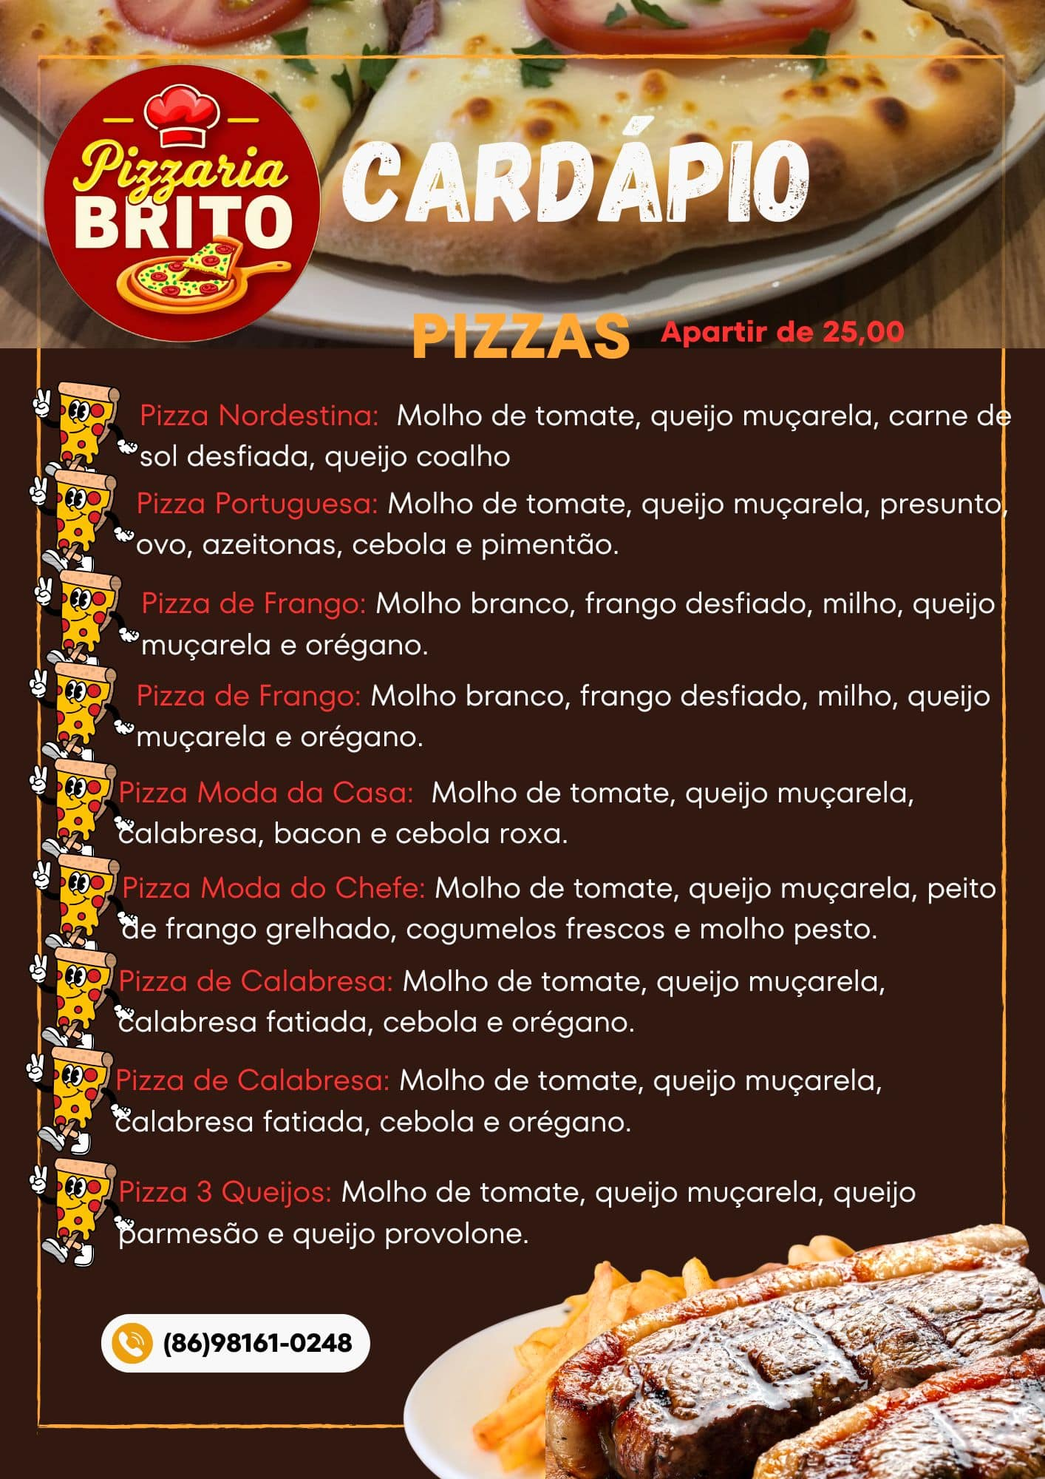
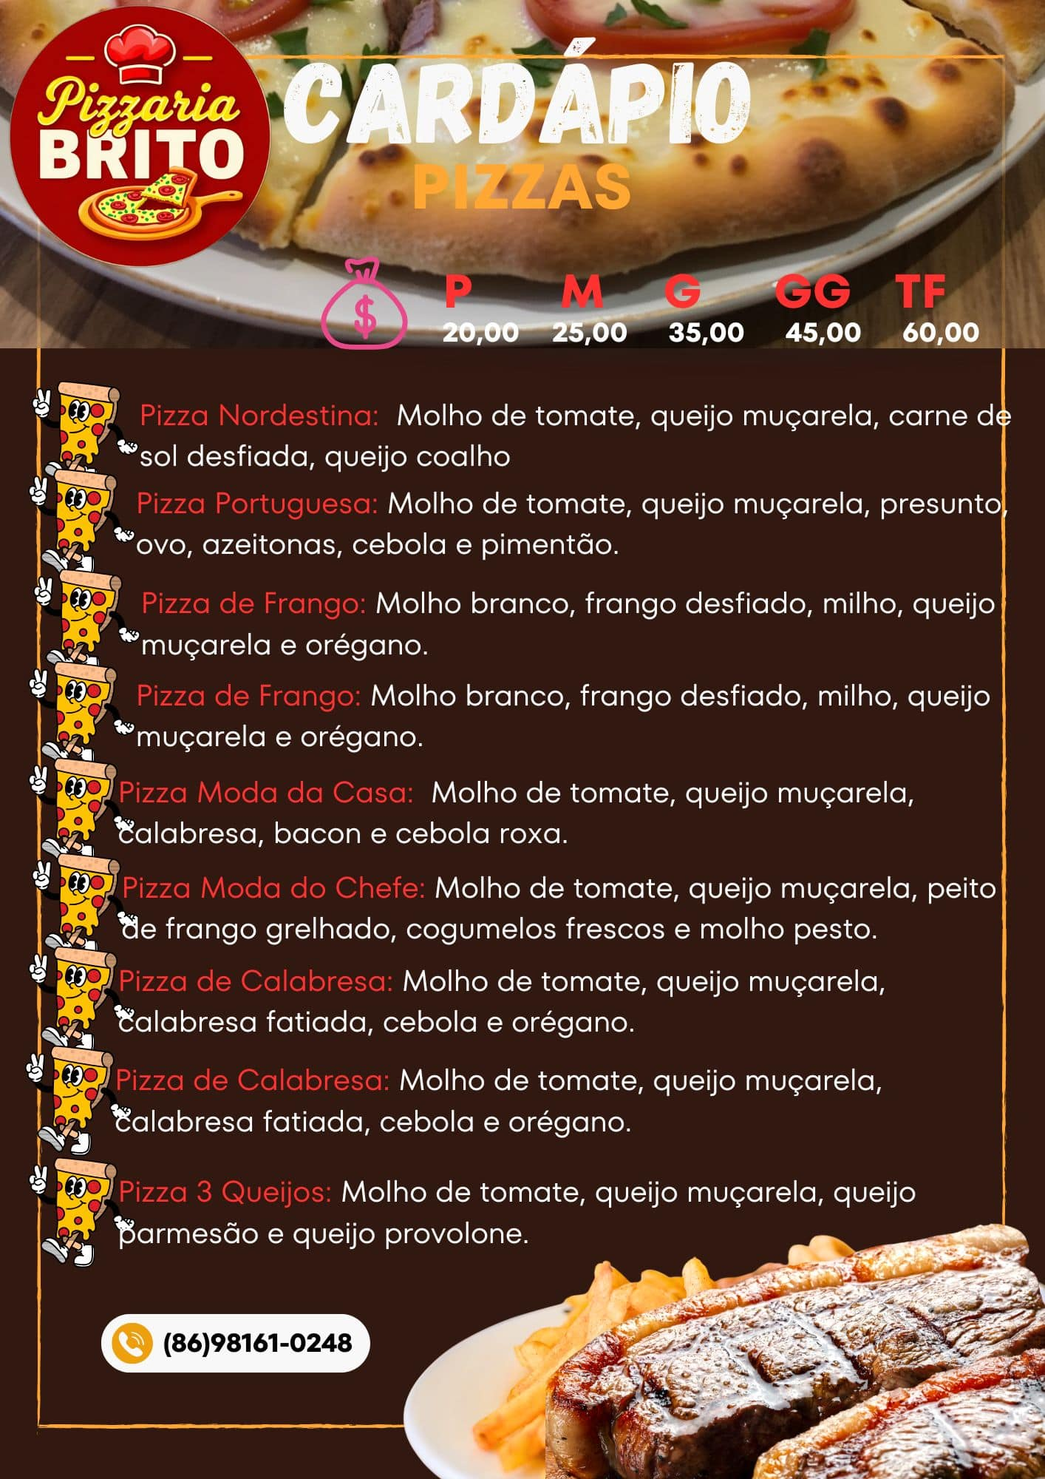
edit
edit

Changed region(s): [[0.0, 0.0, 0.9335, 0.248]]

diff --git a/index.html b/index.html
@@ -172,338 +172,60 @@
 
     <section id="cardapio" class="cardapio py-5">
         <div class="container py-4">
-            <h2 class="text-center fw-bold mb-5 position-relative pb-3">Cardápio Completo da Pizzaria Brito</h2>
+            <h2 class="text-center fw-bold mb-5 position-relative pb-3">Cardápio da Pizzaria Brito</h2>
             
-            <!-- Navegação do cardápio com Bootstrap Tabs -->
-            <ul class="nav nav-pills justify-content-center mb-5" id="cardapio-tab" role="tablist">
-                <li class="nav-item m-2" role="presentation">
-                    <button class="btn btn-outline-danger active px-4 py-2" id="pizzas-tradicionais-tab" 
-                            data-bs-toggle="pill" data-bs-target="#pizzas-tradicionais" 
-                            type="button" role="tab" aria-controls="pizzas-tradicionais" 
-                            aria-selected="true">Pizzas Tradicionais</button>
-                </li>
-                <li class="nav-item m-2" role="presentation">
-                    <button class="btn btn-outline-danger px-4 py-2" id="pizzas-especiais-tab" 
-                            data-bs-toggle="pill" data-bs-target="#pizzas-especiais" 
-                            type="button" role="tab" aria-controls="pizzas-especiais" 
-                            aria-selected="false">Pizzas Especiais</button>
-                </li>
-                <li class="nav-item m-2" role="presentation">
-                    <button class="btn btn-outline-danger px-4 py-2" id="bebidas-tab" 
-                            data-bs-toggle="pill" data-bs-target="#bebidas" 
-                            type="button" role="tab" aria-controls="bebidas" 
-                            aria-selected="false">Bebidas</button>
-                </li>
-                <li class="nav-item m-2" role="presentation">
-                    <button class="btn btn-outline-danger px-4 py-2" id="sobremesas-tab" 
-                            data-bs-toggle="pill" data-bs-target="#sobremesas" 
-                            type="button" role="tab" aria-controls="sobremesas" 
-                            aria-selected="false">Sobremesas</button>
-                </li>
-            </ul>
-            
-            <!-- Conteúdo do cardápio -->
-            <div class="tab-content" id="cardapio-tabContent">
-                <!-- Pizzas Tradicionais -->
-                <div class="tab-pane fade show active" id="pizzas-tradicionais" role="tabpanel" 
-                     aria-labelledby="pizzas-tradicionais-tab">
-                    <h3 class="text-center h4 mb-3">Pizzas Tradicionais</h3>
-                    <p class="text-center text-muted mb-5 col-md-8 mx-auto">Nossas pizzas tradicionais são preparadas com massa artesanal, molho de tomate caseiro e ingredientes frescos de alta qualidade.</p>
+            <div class="row justify-content-center">
+                <div class="col-12 col-lg-10 text-center">
+                    <!-- Título acima da imagem -->
+                    <h3 class="h4 mb-4">Confira Nossas Deliciosas Opções</h3>
                     
-                    <div class="row g-4">
-                        <div class="col-md-6">
-                            <div class="card border-0 shadow-sm mb-3">
-                                <div class="card-body p-4">
-                                    <div class="d-flex justify-content-between align-items-center">
-                                        <h4 class="card-title h5 mb-1">Margherita</h4>
-                                        <span class="badge bg-danger rounded-pill px-3 py-2">R$ 49,90</span>
-                                    </div>
-                                    <p class="card-text text-muted mb-0">Molho de tomate, mussarela, tomate e manjericão fresco.</p>
-                                </div>
-                            </div>
-                        </div>
-                        
-                        <div class="col-md-6">
-                            <div class="card border-0 shadow-sm mb-3">
-                                <div class="card-body p-4">
-                                    <div class="d-flex justify-content-between align-items-center">
-                                        <h4 class="card-title h5 mb-1">Calabresa</h4>
-                                        <span class="badge bg-danger rounded-pill px-3 py-2">R$ 52,90</span>
-                                    </div>
-                                    <p class="card-text text-muted mb-0">Molho de tomate, mussarela, calabresa e cebola.</p>
-                                </div>
-                            </div>
-                        </div>
-                        
-                        <div class="col-md-6">
-                            <div class="card border-0 shadow-sm mb-3">
-                                <div class="card-body p-4">
-                                    <div class="d-flex justify-content-between align-items-center">
-                                        <h4 class="card-title h5 mb-1">Portuguesa</h4>
-                                        <span class="badge bg-danger rounded-pill px-3 py-2">R$ 55,90</span>
-                                    </div>
-                                    <p class="card-text text-muted mb-0">Molho de tomate, mussarela, presunto, ovo, cebola e ervilha.</p>
-                                </div>
-                            </div>
-                        </div>
-                        
-                        <div class="col-md-6">
-                            <div class="card border-0 shadow-sm mb-3">
-                                <div class="card-body p-4">
-                                    <div class="d-flex justify-content-between align-items-center">
-                                        <h4 class="card-title h5 mb-1">Quatro Queijos</h4>
-                                        <span class="badge bg-danger rounded-pill px-3 py-2">R$ 56,90</span>
-                                    </div>
-                                    <p class="card-text text-muted mb-0">Molho de tomate, mussarela, provolone, parmesão e gorgonzola.</p>
-                                </div>
-                            </div>
-                        </div>
-                        
-                        <div class="col-md-6">
-                            <div class="card border-0 shadow-sm mb-3">
-                                <div class="card-body p-4">
-                                    <div class="d-flex justify-content-between align-items-center">
-                                        <h4 class="card-title h5 mb-1">Frango com Catupiry</h4>
-                                        <span class="badge bg-danger rounded-pill px-3 py-2">R$ 54,90</span>
-                                    </div>
-                                    <p class="card-text text-muted mb-0">Molho de tomate, mussarela, frango desfiado e catupiry.</p>
-                                </div>
-                            </div>
-                        </div>
-                        
-                        <div class="col-md-6">
-                            <div class="card border-0 shadow-sm mb-3">
-                                <div class="card-body p-4">
-                                    <div class="d-flex justify-content-between align-items-center">
-                                        <h4 class="card-title h5 mb-1">Pepperoni</h4>
-                                        <span class="badge bg-danger rounded-pill px-3 py-2">R$ 58,90</span>
-                                    </div>
-                                    <p class="card-text text-muted mb-0">Molho de tomate, mussarela e pepperoni.</p>
-                                </div>
-                            </div>
+                    <!-- Imagem do cardápio responsiva -->
+                    <div class="card mb-4 border-0 shadow">
+                        <img src="img/cardapio.jpg" class="img-fluid rounded" alt="Cardápio da Pizzaria Brito">
+                        <div class="card-body p-3 bg-light">
+                            <!-- Legenda abaixo da imagem -->
+                            <p class="card-text">Todas as nossas pizzas são preparadas com ingredientes selecionados e massa artesanal.</p>
                         </div>
                     </div>
-                </div>
-                
-                <!-- Outras abas serão adaptadas da mesma forma -->
-                <!-- Pizzas Especiais -->
-                <div class="tab-pane fade" id="pizzas-especiais" role="tabpanel" 
-                     aria-labelledby="pizzas-especiais-tab">
-                    <h3 class="text-center h4 mb-3">Pizzas Especiais</h3>
-                    <p class="text-center text-muted mb-5 col-md-8 mx-auto">Nossas pizzas especiais combinam ingredientes exclusivos para criar sabores únicos que só encontrará aqui.</p>
                     
-                    <div class="row g-4">
-                        <div class="col-md-6">
-                            <div class="card border-0 shadow-sm mb-3">
+                    <!-- Informações adicionais -->
+                    <div class="row g-4 mt-3">
+                        <div class="col-md-4">
+                            <div class="card border-0 border-start border-danger border-4 shadow-sm h-100">
                                 <div class="card-body p-4">
-                                    <div class="d-flex justify-content-between align-items-center">
-                                        <h4 class="card-title h5 mb-1">Especial Brito</h4>
-                                        <span class="badge bg-danger rounded-pill px-3 py-2">R$ 59,90</span>
+                                    <div class="d-flex">
+                                        <div class="me-3 text-danger fs-3 d-flex align-items-center justify-content-center" style="width: 40px; min-width: 40px;">
+                                            <i class="fas fa-pizza-slice"></i>
+                                        </div>
+                                        <p class="mb-0">Disponível nos tamanhos P (25cm), M (30cm) e G (35cm).</p>
                                     </div>
-                                    <p class="card-text text-muted mb-0">Nossa pizza exclusiva com calabresa, bacon, cebola caramelizada, mussarela e catupiry.</p>
                                 </div>
                             </div>
                         </div>
                         
-                        <div class="col-md-6">
-                            <div class="card border-0 shadow-sm mb-3">
+                        <div class="col-md-4">
+                            <div class="card border-0 border-start border-danger border-4 shadow-sm h-100">
                                 <div class="card-body p-4">
-                                    <div class="d-flex justify-content-between align-items-center">
-                                        <h4 class="card-title h5 mb-1">Nordestina</h4>
-                                        <span class="badge bg-danger rounded-pill px-3 py-2">R$ 62,90</span>
+                                    <div class="d-flex">
+                                        <div class="me-3 text-danger fs-3 d-flex align-items-center justify-content-center" style="width: 40px; min-width: 40px;">
+                                            <i class="fas fa-motorcycle"></i>
+                                        </div>
+                                        <p class="mb-0">Entrega grátis para pedidos acima de R$ 60,00 em Cocal dos Alves.</p>
                                     </div>
-                                    <p class="card-text text-muted mb-0">Molho de tomate, mussarela, carne de sol desfiada, cebola e cream cheese.</p>
                                 </div>
                             </div>
                         </div>
                         
-                        <div class="col-md-6">
-                            <div class="card border-0 shadow-sm mb-3">
+                        <div class="col-md-4">
+                            <div class="card border-0 border-start border-danger border-4 shadow-sm h-100">
                                 <div class="card-body p-4">
-                                    <div class="d-flex justify-content-between align-items-center">
-                                        <h4 class="card-title h5 mb-1">Camarão</h4>
-                                        <span class="badge bg-danger rounded-pill px-3 py-2">R$ 68,90</span>
+                                    <div class="d-flex">
+                                        <div class="me-3 text-danger fs-3 d-flex align-items-center justify-content-center" style="width: 40px; min-width: 40px;">
+                                            <i class="fas fa-credit-card"></i>
+                                        </div>
+                                        <p class="mb-0">Aceitamos cartões de crédito, débito, Pix e dinheiro.</p>
                                     </div>
-                                    <p class="card-text text-muted mb-0">Molho de tomate, mussarela, camarão ao alho e óleo, pimentão e azeitonas.</p>
                                 </div>
-                            </div>
-                        </div>
-                        
-                        <div class="col-md-6">
-                            <div class="card border-0 shadow-sm mb-3">
-                                <div class="card-body p-4">
-                                    <div class="d-flex justify-content-between align-items-center">
-                                        <h4 class="card-title h5 mb-1">Vegetariana Especial</h4>
-                                        <span class="badge bg-danger rounded-pill px-3 py-2">R$ 56,90</span>
-                                    </div>
-                                    <p class="card-text text-muted mb-0">Molho de tomate, mussarela, abobrinha, berinjela, pimentão, cebola, tomate e rúcula.</p>
-                                </div>
-                            </div>
-                        </div>
-                    </div>
-                </div>
-                
-                <!-- Bebidas -->
-                <div class="tab-pane fade" id="bebidas" role="tabpanel" 
-                     aria-labelledby="bebidas-tab">
-                    <h3 class="text-center h4 mb-3">Bebidas</h3>
-                    <p class="text-center text-muted mb-5 col-md-8 mx-auto">Complemente sua refeição com nossas opções de bebidas.</p>
-                    
-                    <div class="row g-4">
-                        <div class="col-md-6">
-                            <div class="card border-0 shadow-sm mb-3">
-                                <div class="card-body p-4">
-                                    <div class="d-flex justify-content-between align-items-center">
-                                        <h4 class="card-title h5 mb-1">Refrigerante Lata</h4>
-                                        <span class="badge bg-danger rounded-pill px-3 py-2">R$ 5,90</span>
-                                    </div>
-                                    <p class="card-text text-muted mb-0">Coca-Cola, Guaraná Antarctica, Fanta, Sprite.</p>
-                                </div>
-                            </div>
-                        </div>
-                        
-                        <div class="col-md-6">
-                            <div class="card border-0 shadow-sm mb-3">
-                                <div class="card-body p-4">
-                                    <div class="d-flex justify-content-between align-items-center">
-                                        <h4 class="card-title h5 mb-1">Refrigerante 2L</h4>
-                                        <span class="badge bg-danger rounded-pill px-3 py-2">R$ 12,90</span>
-                                    </div>
-                                    <p class="card-text text-muted mb-0">Coca-Cola, Guaraná Antarctica, Fanta, Sprite.</p>
-                                </div>
-                            </div>
-                        </div>
-                        
-                        <div class="col-md-6">
-                            <div class="card border-0 shadow-sm mb-3">
-                                <div class="card-body p-4">
-                                    <div class="d-flex justify-content-between align-items-center">
-                                        <h4 class="card-title h5 mb-1">Suco Natural</h4>
-                                        <span class="badge bg-danger rounded-pill px-3 py-2">R$ 8,90</span>
-                                    </div>
-                                    <p class="card-text text-muted mb-0">Laranja, abacaxi, maracujá, limão ou uva.</p>
-                                </div>
-                            </div>
-                        </div>
-                        
-                        <div class="col-md-6">
-                            <div class="card border-0 shadow-sm mb-3">
-                                <div class="card-body p-4">
-                                    <div class="d-flex justify-content-between align-items-center">
-                                        <h4 class="card-title h5 mb-1">Água Mineral</h4>
-                                        <span class="badge bg-danger rounded-pill px-3 py-2">R$ 3,90</span>
-                                    </div>
-                                    <p class="card-text text-muted mb-0">Com ou sem gás (500ml).</p>
-                                </div>
-                            </div>
-                        </div>
-                        
-                        <div class="col-md-6">
-                            <div class="card border-0 shadow-sm mb-3">
-                                <div class="card-body p-4">
-                                    <div class="d-flex justify-content-between align-items-center">
-                                        <h4 class="card-title h5 mb-1">Cerveja</h4>
-                                        <span class="badge bg-danger rounded-pill px-3 py-2">R$ 6,90</span>
-                                    </div>
-                                    <p class="card-text text-muted mb-0">Brahma, Skol, Heineken (lata 350ml).</p>
-                                </div>
-                            </div>
-                        </div>
-                    </div>
-                </div>
-                
-                <!-- Sobremesas -->
-                <div class="tab-pane fade" id="sobremesas" role="tabpanel" 
-                     aria-labelledby="sobremesas-tab">
-                    <h3 class="text-center h4 mb-3">Sobremesas</h3>
-                    <p class="text-center text-muted mb-5 col-md-8 mx-auto">Finalize sua refeição com nossas deliciosas opções de sobremesas.</p>
-                    
-                    <div class="row g-4">
-                        <div class="col-md-6">
-                            <div class="card border-0 shadow-sm mb-3">
-                                <div class="card-body p-4">
-                                    <div class="d-flex justify-content-between align-items-center">
-                                        <h4 class="card-title h5 mb-1">Pizza de Chocolate</h4>
-                                        <span class="badge bg-danger rounded-pill px-3 py-2">R$ 45,90</span>
-                                    </div>
-                                    <p class="card-text text-muted mb-0">Chocolate ao leite, granulado e morangos.</p>
-                                </div>
-                            </div>
-                        </div>
-                        
-                        <div class="col-md-6">
-                            <div class="card border-0 shadow-sm mb-3">
-                                <div class="card-body p-4">
-                                    <div class="d-flex justify-content-between align-items-center">
-                                        <h4 class="card-title h5 mb-1">Pizza de Banana</h4>
-                                        <span class="badge bg-danger rounded-pill px-3 py-2">R$ 43,90</span>
-                                    </div>
-                                    <p class="card-text text-muted mb-0">Banana, canela, leite condensado e doce de leite.</p>
-                                </div>
-                            </div>
-                        </div>
-                        
-                        <div class="col-md-6">
-                            <div class="card border-0 shadow-sm mb-3">
-                                <div class="card-body p-4">
-                                    <div class="d-flex justify-content-between align-items-center">
-                                        <h4 class="card-title h5 mb-1">Petit Gateau</h4>
-                                        <span class="badge bg-danger rounded-pill px-3 py-2">R$ 18,90</span>
-                                    </div>
-                                    <p class="card-text text-muted mb-0">Bolo quente de chocolate com sorvete de creme.</p>
-                                </div>
-                            </div>
-                        </div>
-                        
-                        <div class="col-md-6">
-                            <div class="card border-0 shadow-sm mb-3">
-                                <div class="card-body p-4">
-                                    <div class="d-flex justify-content-between align-items-center">
-                                        <h4 class="card-title h5 mb-1">Pudim de Leite</h4>
-                                        <span class="badge bg-danger rounded-pill px-3 py-2">R$ 12,90</span>
-                                    </div>
-                                    <p class="card-text text-muted mb-0">Tradicional pudim de leite condensado.</p>
-                                </div>
-                            </div>
-                        </div>
-                    </div>
-                </div>
-            </div>
-            
-            <!-- Informações adicionais -->
-            <div class="row mt-5 pt-3 g-4">
-                <div class="col-md-4">
-                    <div class="card border-0 border-start border-danger border-4 shadow-sm h-100">
-                        <div class="card-body p-4">
-                            <div class="d-flex">
-                                <div class="me-3 text-danger fs-3 d-flex align-items-center justify-content-center" style="width: 40px; min-width: 40px;">
-                                    <i class="fas fa-info-circle"></i>
-                                </div>
-                                <p class="mb-0">Todas as nossas pizzas são disponíveis nos tamanhos médio (8 fatias) e grande (12 fatias). Consulte preços.</p>
-                            </div>
-                        </div>
-                    </div>
-                </div>
-                <div class="col-md-4">
-                    <div class="card border-0 border-start border-danger border-4 shadow-sm h-100">
-                        <div class="card-body p-4">
-                            <div class="d-flex">
-                                <div class="me-3 text-danger fs-3 d-flex align-items-center justify-content-center" style="width: 40px; min-width: 40px;">
-                                    <i class="fas fa-tag"></i>
-                                </div>
-                                <p class="mb-0"><strong>Promoção Especial</strong> Promoções toda semana! Confira os descontos exclusivos. Não fazemos entrega.</p>
-                            </div>
-                        </div>
-                    </div>
-                </div>
-                <div class="col-md-4">
-                    <div class="card border-0 border-start border-danger border-4 shadow-sm h-100">
-                        <div class="card-body p-4">
-                            <div class="d-flex">
-                                <div class="me-3 text-danger fs-3 d-flex align-items-center justify-content-center" style="width: 40px; min-width: 40px;">
-                                    <i class="fas fa-credit-card"></i>
-                                </div>
-                                <p class="mb-0">Aceitamos cartões de crédito, débito, Pix e dinheiro.</p>
                             </div>
                         </div>
                     </div>
